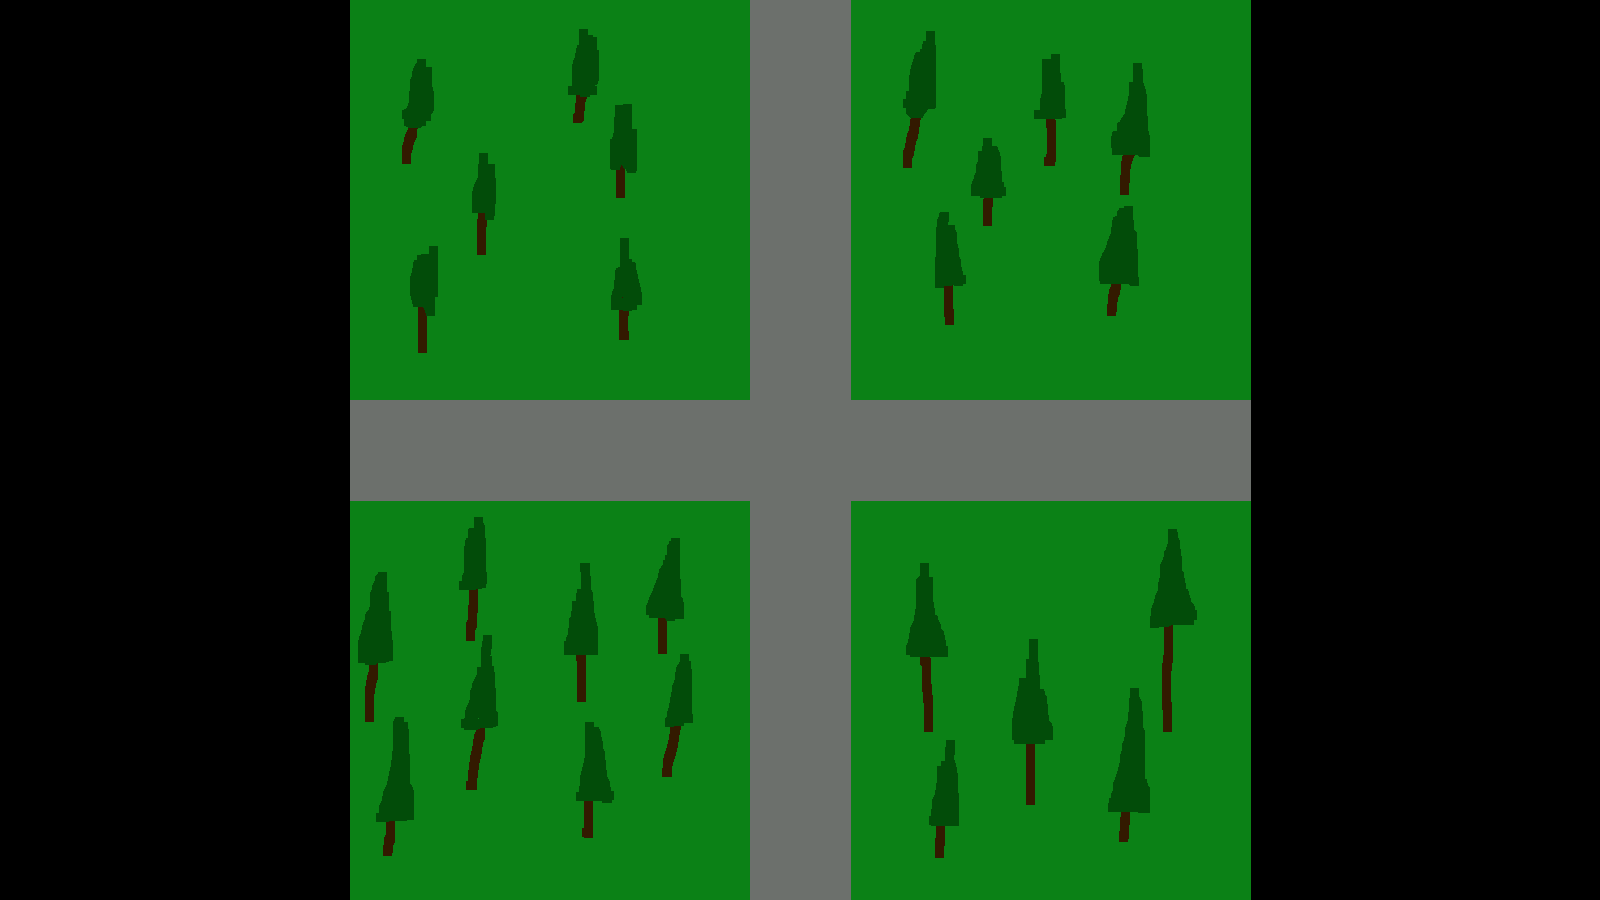
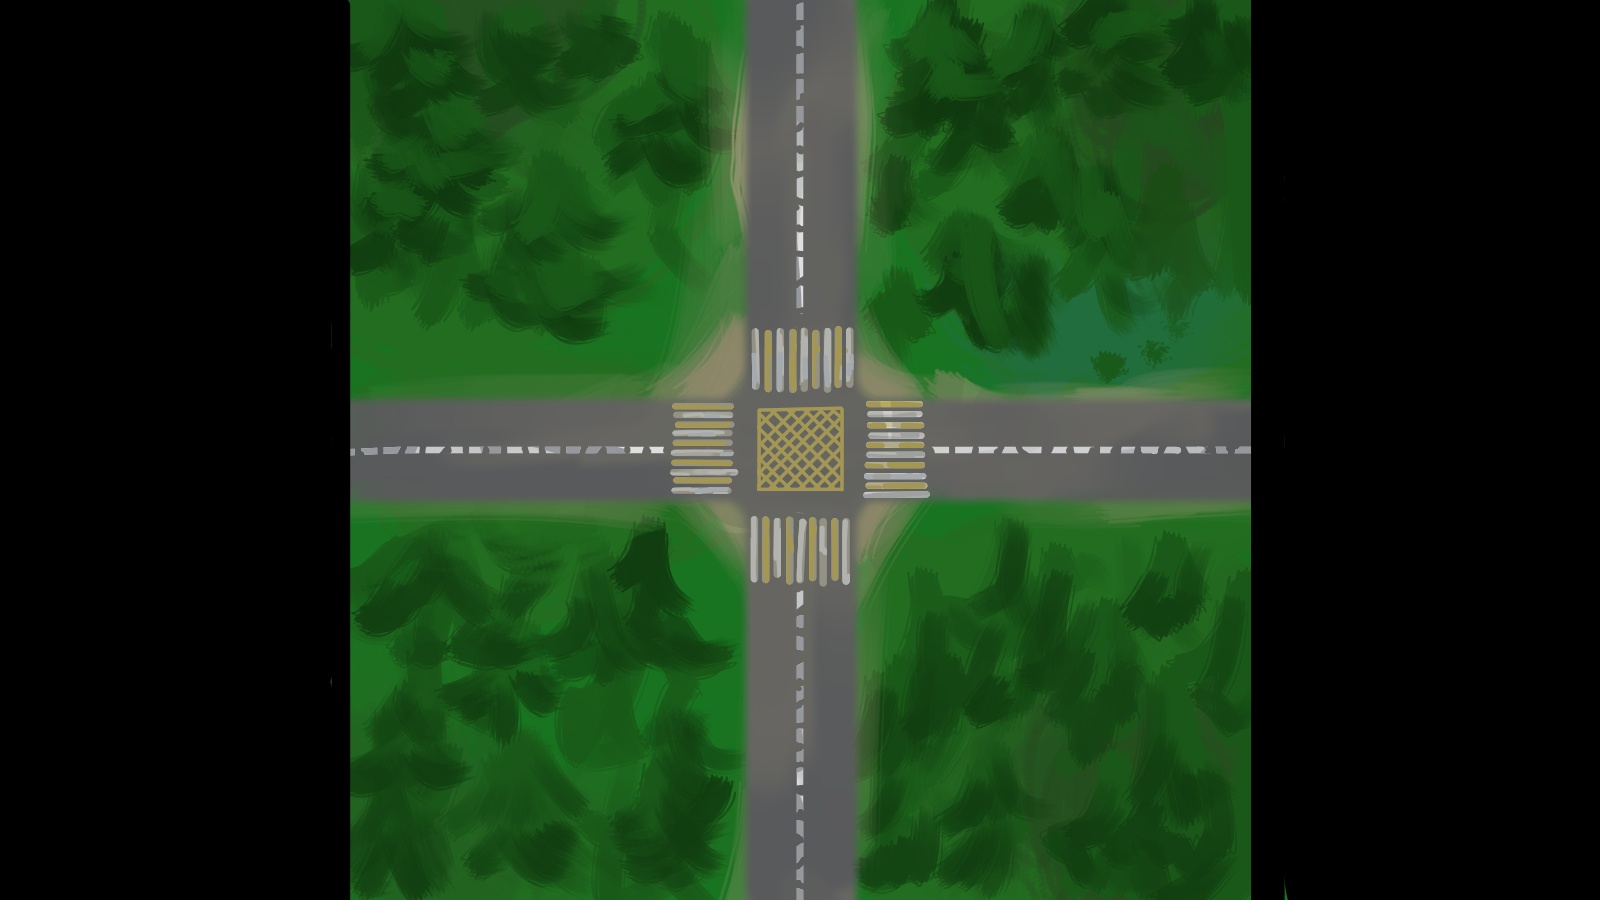
исправление бага

diff --git a/gamewindow.py b/gamewindow.py
@@ -30,17 +30,17 @@ class Game_View(arcade.View):
         self.all_pause_time = 0
         self.pause_time = 0
         self.paused = False
-        self.batch = Batch()
         self.start_timer_limit = 10
-        self.interval0 = 5
-        self.interval1 = 7
+        self.interval0 = 1
+        self.interval1 = 3
         self.difficulty_speed = 0
         self.health = 3
         self.hero_speed = 20
         self.no_damage_time = 5
-        self.car_speed0 = 40
-        self.car_speed1 = 55
+        self.car_speed0 = 50
+        self.car_speed1 = 65
 
+        self.batch = Batch()
         self.dead = False
 
         self.hero_list = arcade.SpriteList()
@@ -76,13 +76,26 @@ class Game_View(arcade.View):
         self.pause_manager = UIManager()
         self.pause_manager.enable()
 
+        self.death_manager = UIManager()
+        self.death_manager.enable()
+
+        self.restart_texture = arcade.load_texture("images/button.png")
+        self.restart_button = UITextureButton(x=self.game_width // 2 - 250, y=self.game_height // 2 + 100, widht=500, height=100, texture=self.restart_texture, text="Заново")
+        self.restart_button.on_click = self.restart
+        self.death_manager.add(self.restart_button)
+
+        self.exit_texture = arcade.load_texture("images/button.png")
+        self.exit_button = UITextureButton(x=self.game_width // 2 - 250, y=self.game_height // 2 - 100, widht=500, height=100, texture=self.exit_texture, text="Выйти")
+        self.exit_button.on_click = self.exit_to_menu
+        self.death_manager.add(self.exit_button)
+
         self.continue_texture = arcade.load_texture("images/button.png")
-        self.continue_button = UITextureButton(x=self.game_width // 2 - 250, y=self.game_height // 2 + 100, widht=500, height=100, texture=self.continue_texture, text="ПРОДОЛЖИТЬ")
+        self.continue_button = UITextureButton(x=self.game_width // 2 - 250, y=self.game_height // 2 + 100, widht=500, height=100, texture=self.continue_texture, text="Продолжить")
         self.continue_button.on_click = self.change_pause
         self.pause_manager.add(self.continue_button)
 
         self.exit_texture = arcade.load_texture("images/button.png")
-        self.exit_button = UITextureButton(x=self.game_width // 2 - 250, y=self.game_height // 2 - 100, widht=500, height=100, texture=self.exit_texture, text="ВЫЙТИ")
+        self.exit_button = UITextureButton(x=self.game_width // 2 - 250, y=self.game_height // 2 - 100, widht=500, height=100, texture=self.exit_texture, text="Выйти")
         self.exit_button.on_click = self.exit_to_menu
         self.pause_manager.add(self.exit_button)
 
@@ -116,13 +129,20 @@ class Game_View(arcade.View):
         for car in self.vertical_car_list:
             car.countdown.draw()
         self.gui_camera.use()
-        if self.paused == True:
+        if self.paused:
             arcade.draw_rect_filled(arcade.rect.XYWH(self.game_width // 2, self.game_height // 2, 800, 800), (68, 202, 100, 158))
             arcade.draw_text(text="ПАУЗА", x=self.game_width // 2, y=self.game_height - 150, color=arcade.color.WHITE, width=400, font_size=90, anchor_x="center", anchor_y="center")
             self.pause_manager.enable()
             self.pause_manager.draw()
         else:
             self.pause_manager.disable()
+        if self.dead:
+            arcade.draw_rect_filled(arcade.rect.XYWH(self.game_width // 2, self.game_height // 2, 800, 800), (28, 27, 27, 170))
+            arcade.draw_text(text="СМЕРТЬ", x=self.game_width // 2, y=self.game_height - 150, color=(105, 100, 100), width=400, font_size=90, anchor_x="center", anchor_y="center")
+            self.death_manager.enable()
+            self.death_manager.draw()
+        else:
+            self.death_manager.disable()
              
         
     def on_update(self, dt):
@@ -276,7 +296,7 @@ class Game_View(arcade.View):
                 self.make_car_start_time = time.time()
                 self.place = random.choice([0, 1])
                 if self.place == 0: #  горизонталь
-                    car = Car(self.game_width - 60, self.game_height // 2 + random.randint(-20, 20), self.place, self.car_speed0, self.car_speed1, self.difficulty_speed)
+                    car = Car(290, self.game_height // 2 + random.randint(-20, 20), self.place, self.car_speed0, self.car_speed1, self.difficulty_speed)
                     self.horizontal_car_list.append(car)
                 else: #  вертикаль
                     car = Car(self.game_width // 2 + random.randint(-20, 20), self.game_height + 60, self.place, self.car_speed0, self.car_speed1, self.difficulty_speed)
@@ -286,7 +306,7 @@ class Game_View(arcade.View):
             if self.add_car_time - self.start_game_time >= self.start_game_interval:
                 self.place = random.choice([0, 1])
                 if self.place == 0: #  горизонталь
-                    car = Car(self.game_width - 60, self.game_height // 2 + random.randint(-20, 20), self.place, self.car_speed0, self.car_speed1, self.difficulty_speed)
+                    car = Car(290, self.game_height // 2 + random.randint(-20, 20), self.place, self.car_speed0, self.car_speed1, self.difficulty_speed)
                     self.horizontal_car_list.append(car)
                 else: #  вертикаль
                     car = Car(self.game_width // 2 + random.randint(-20, 20), self.game_height + 60, self.place, self.car_speed0, self.car_speed1, self.difficulty_speed)
@@ -300,7 +320,7 @@ class Game_View(arcade.View):
     #  ну тут типа музыку стопать
 
     def death(self):
-        if self.hero.health == 4:
+        if self.hero.health == 0:
             self.dead = True
 
     def difficulty_grow(self):
@@ -324,6 +344,9 @@ class Game_View(arcade.View):
     def exit_to_menu(self, event=None):
         from menuwindow import Menu_View
         self.window.show_view(Menu_View(1600, 900))
+    
+    def restart(self, event=None):
+        self.setup()
                 
 if __name__ == "__main__":
     window = arcade.Window(1600, 900, "Игра", fullscreen=False)
